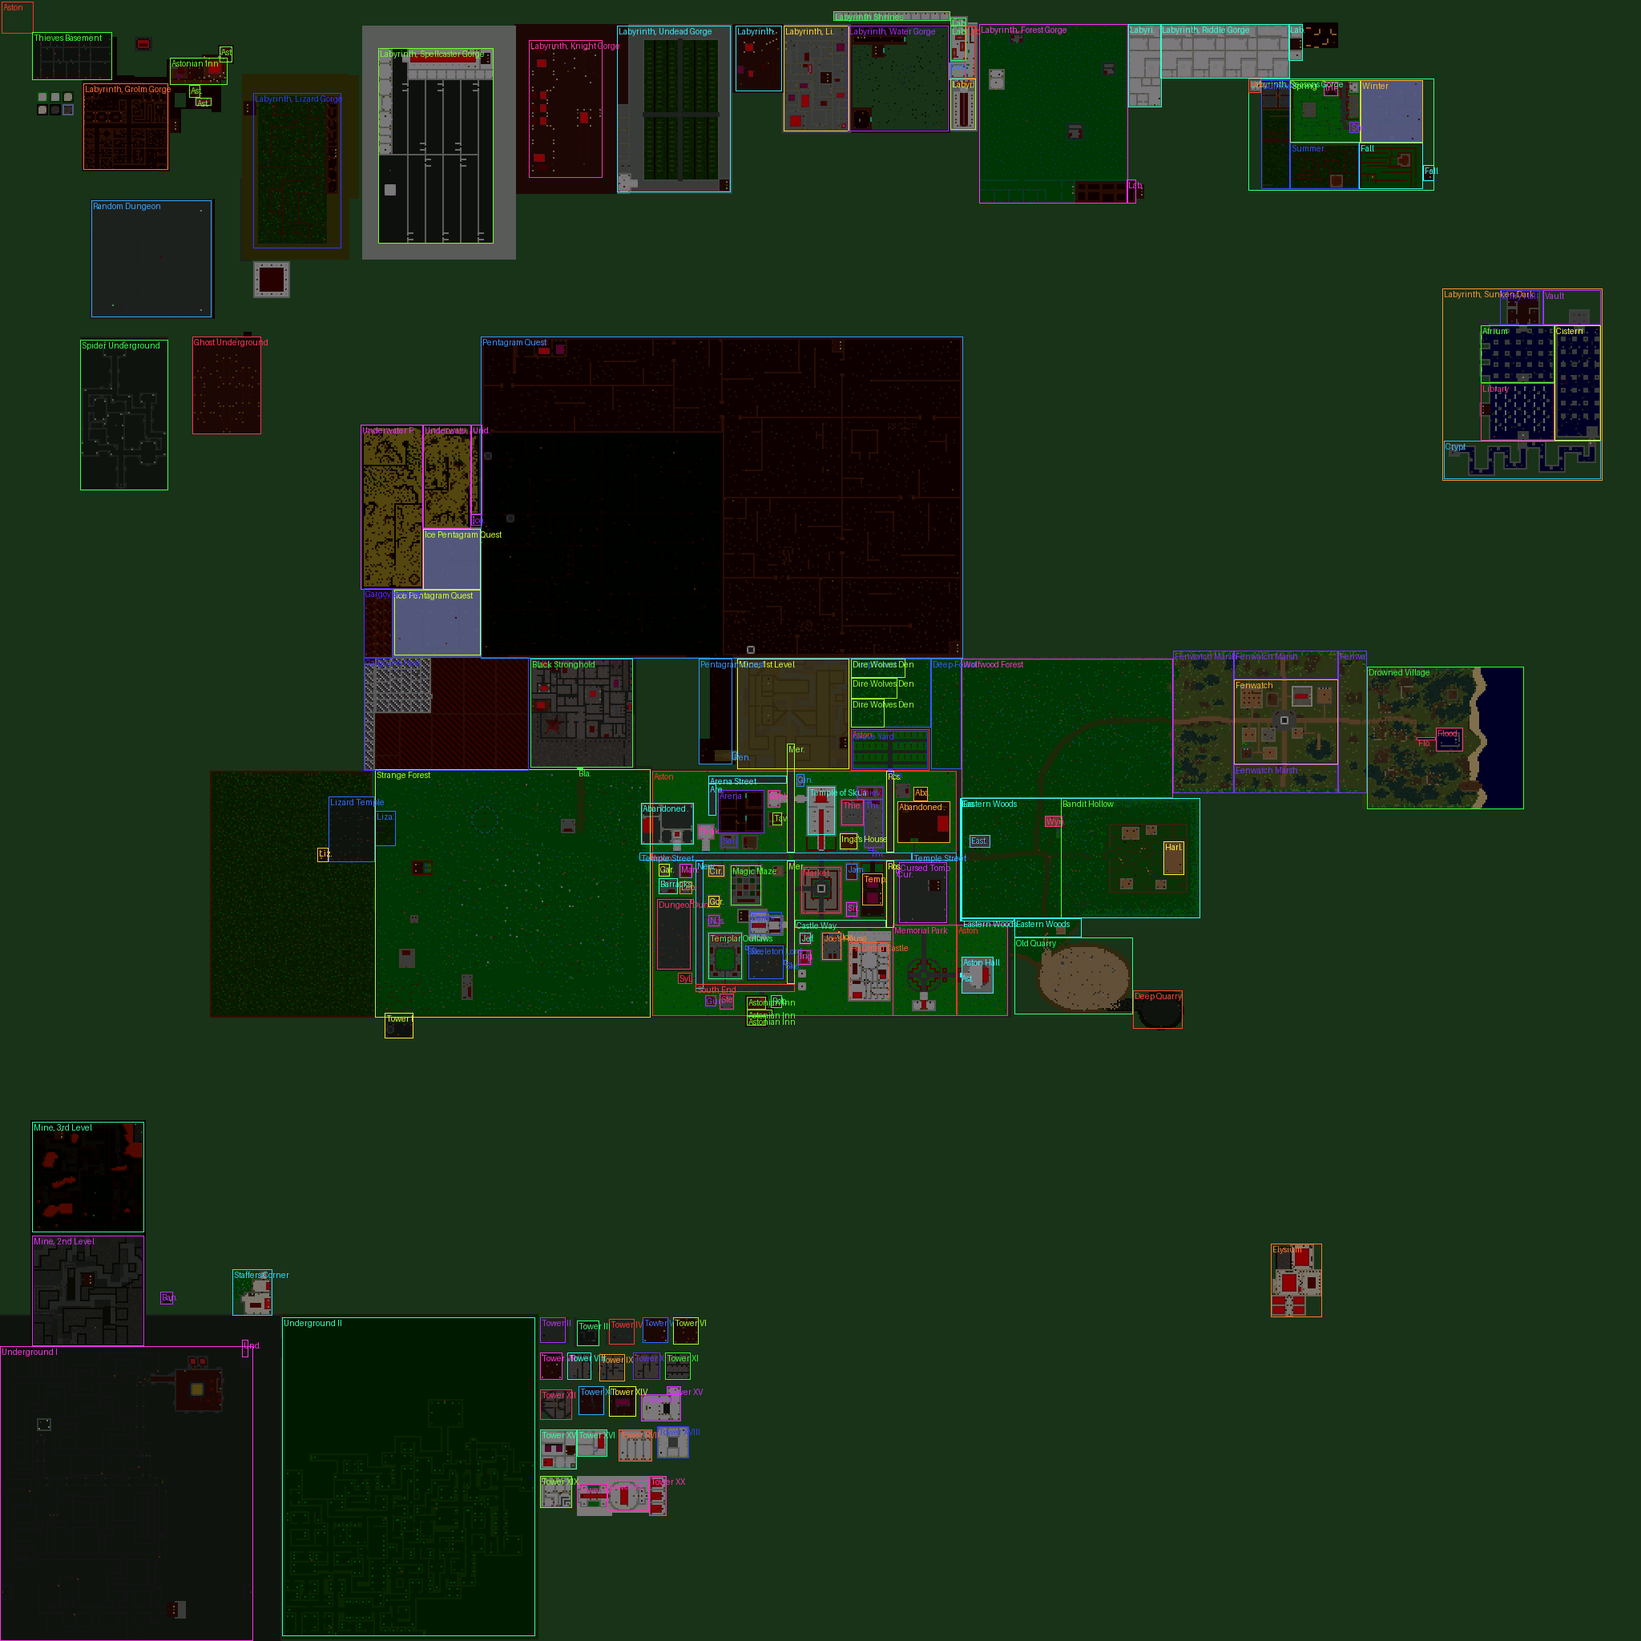
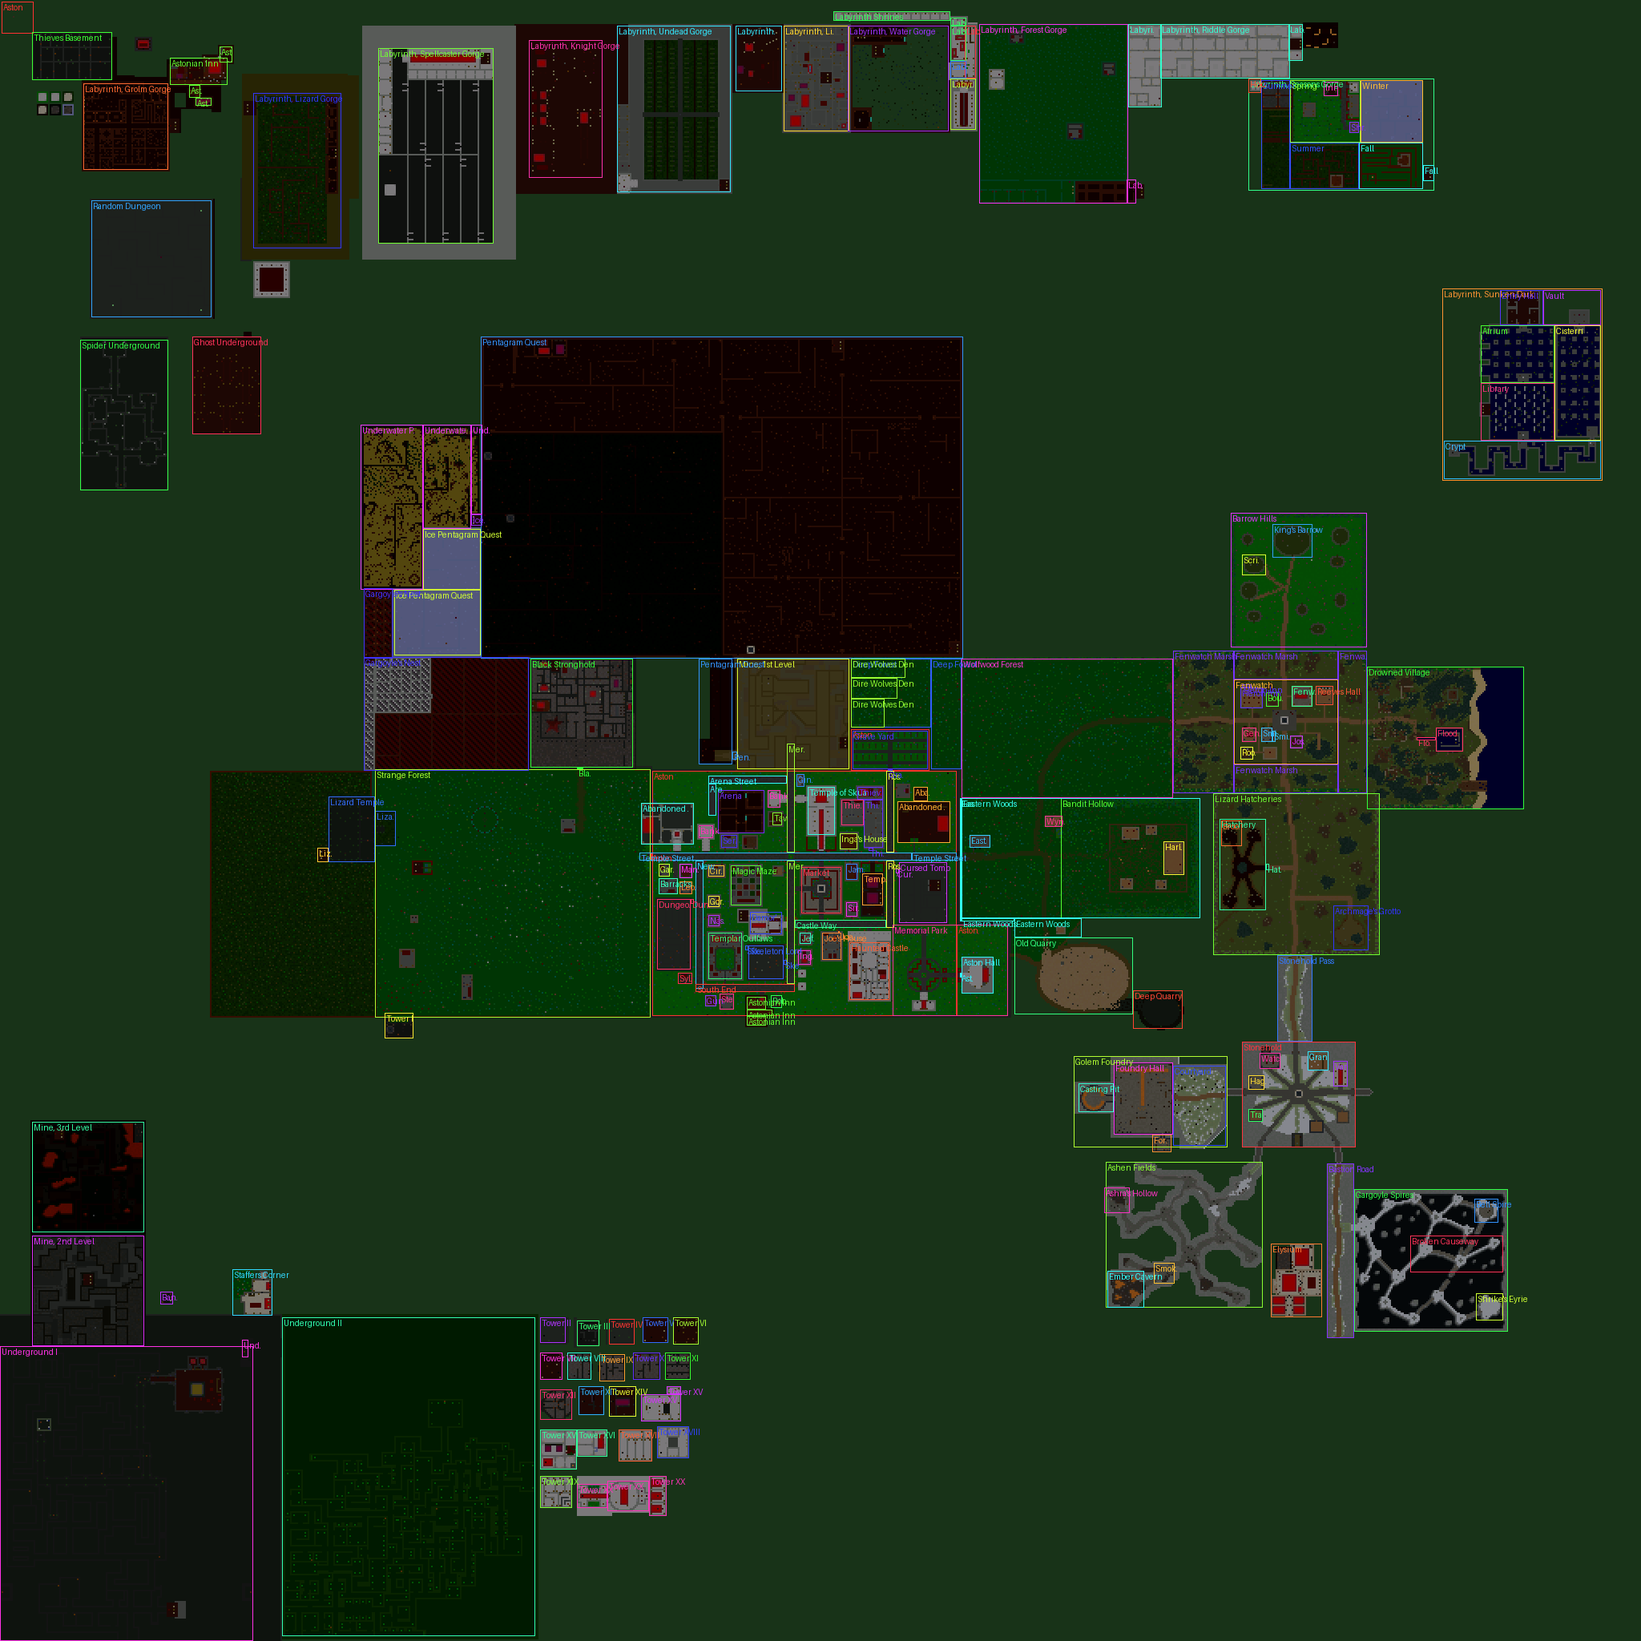
Gargoyle Spires LIVE: CHANGES, docs, minimap/zones, made.json; incremental client publish (client-dist 9c67f2c)
Claude-Session: https://claude.ai/code/session_01AHK8Gjj1u582HPuMYjjGso

Changed region(s): [[0.6562, 0.3125, 0.9375, 0.8125]]

diff --git a/tools/release/publish_client_inc.py b/tools/release/publish_client_inc.py
@@ -1,0 +1,42 @@
+"""Incremental client-dist publish: the last client-dist tree + the client files that are new or changed in size since
+(new sprites), with manifest.txt updated the same way publish_client.py writes it. The player zip is not rebuilt."""
+import os, sys, subprocess, hashlib, tempfile
+client, repo, version = sys.argv[1], sys.argv[2], sys.argv[3]
+def git(*a, env=None, inp=None):
+    return subprocess.run(['git', '-C', repo] + list(a), check=True, capture_output=True, text=True, env=env, input=inp).stdout.strip()
+man = git('show', 'client-dist:manifest.txt').split('\n')
+old = {}
+for l in man:
+    if l.startswith('file '):
+        _, h, sz, rel = l.split(' ', 3); old[rel] = (h, int(sz))
+NEVER = {'merc.dat', 'merc2.dat', 'client.ini', 'client.log', 'launcher.log'}
+changed = []
+for top in ['merc.exe', 'Launcher.exe', 'pnglib.dat', 'pnglib.idx']:
+    p = os.path.join(client, top)
+    if top not in old or os.path.getsize(p) != old[top][1]: changed.append((top, p))
+for d in ('GFX', 'sfx'):
+    for root, _, names in os.walk(os.path.join(client, d)):
+        for n in names:
+            if n in NEVER or n.lower().endswith(('.moa', '.part', '.tmp')): continue
+            p = os.path.join(root, n); rel = os.path.relpath(p, client).replace(os.sep, '/')
+            if rel not in old or os.path.getsize(p) != old[rel][1]: changed.append((rel, p))
+print('new or changed:', len(changed))
+idx = tempfile.mktemp(prefix='cd-index-'); env = dict(os.environ, GIT_INDEX_FILE=idx)
+git('read-tree', 'client-dist', env=env)
+info = []
+for rel, p in changed:
+    data = open(p, 'rb').read(); h = hashlib.sha256(data).hexdigest()
+    blob = subprocess.run(['git', '-C', repo, 'hash-object', '-w', '--stdin'], input=data, capture_output=True, check=True).stdout.decode().strip()
+    info.append('100644 %s\t%s' % (blob, rel)); old[rel] = (h, len(data))
+lines = [l for l in man if l and not l.startswith(('file ', 'base ', 'version '))]
+lines.append('version ' + version)
+for rel in sorted(old, key=lambda r: r.lower()): lines.append('file %s %d %s' % (old[rel][0], old[rel][1], rel))
+lines += [l for l in man if l.startswith('base ')]
+mblob = git('hash-object', '-w', '--stdin', inp='\n'.join(lines) + '\n')
+info.append('100644 %s\tmanifest.txt' % mblob)
+git('update-index', '--add', '--index-info', env=env, inp='\n'.join(info) + '\n')
+tree = git('write-tree', env=env); parent = git('rev-parse', 'refs/heads/client-dist')
+commit = git('commit-tree', tree, '-p', parent, '-m', 'Client files ' + version)
+git('update-ref', 'refs/heads/client-dist', commit, parent)
+os.remove(idx)
+print('client-dist is now %s (+%d files), version %s' % (commit[:7], len(changed), version))

diff --git a/docs/QUEST_BUILD.md b/docs/QUEST_BUILD.md
@@ -74,14 +74,14 @@ past Elysium -> Last Bastion.** The Barrow Hills are a dead end off Fenwatch's n
 
 ## 4. Numbers in use (check again before making new ones)
 
-- Item templates up to **2077** (2064-2068 Golem Foundry; 2069-2077 Ashen Fields) (2024-2032 Drowned Village; 2033-2050 wall decorations; 2051-2054 Barrow Hills;
-  2055-2063 Lizard Hatcheries). NPC templates up to **2360** (2319-2360 Ashen Fields; 2206-2239 Barrow Hills; 2240-2276 Lizard Hatcheries incl. Cody's 3 knight copies; 2277-2292 Stonehold; 2293-2317 Golem Foundry; 2318 the Sea Hag). `itempnew` / `ctempnew` take the next free number by themselves.
+- Item templates up to **2082** (2064-2068 Golem Foundry; 2069-2077 Ashen Fields; 2078-2082 Gargoyle Spires) (2024-2032 Drowned Village; 2033-2050 wall decorations; 2051-2054 Barrow Hills;
+  2055-2063 Lizard Hatcheries). NPC templates up to **2405** (2361-2405 Gargoyle Spires; 2319-2360 Ashen Fields; 2206-2239 Barrow Hills; 2240-2276 Lizard Hatcheries incl. Cody's 3 knight copies; 2277-2292 Stonehold; 2293-2317 Golem Foundry; 2318 the Sea Hag). `itempnew` / `ctempnew` take the next free number by themselves.
 - Monster groups (NPC data 42/44): 30 bandits, 31 quarry golems, 32 deep grolms, 33 wolves, 34 Drowned Village, 35 Barrow Hills, 36 Lizard Hatcheries.
-  37 Golem Foundry, 38 Ashen Fields. **Next: 39.** Undead in a group listed in `SLOW_UNDEAD_GROUP` (`data.h`: 34, 35) regenerate like Lab 11's (~4 hp/s, not ~12):
+  37 Golem Foundry, 38 Ashen Fields, 39 Gargoyle Spires. **Next: 40.** Undead in a group listed in `SLOW_UNDEAD_GROUP` (`data.h`: 34, 35) regenerate like Lab 11's (~4 hp/s, not ~12):
   add each new undead area's group there (Cody, Nov 17).
 - Sprites: monster recolours 41000+ (Quarry Golem), 42100+ (Deep Grolm), 50000+ Drowned Sailor, 50500+ Bog-man,
-  51000-51981 Sea Golem, 52000+ Barrow Wight, 53000+ the Broodmother, 54000+ Lizard Hatchling, 55000 Iron Golem, 56000 Forgemaster, 57000 Brass Colossus (96x96), 58000 Sea Hag, 59000 Ash Gargoyle, 60000 the Flame Lord (1.4x: 64x96 frames), 61000 Ashra: **next free block 62000** (a recolour fills base+0..1023, so step by 1000 to be safe; 500 worked
-  for the Undead and Grolm). 3D creatures 43000-44447 (wolves). Item pictures 44500-44550: **next 44551**. World objects: lizard eggs 38300-38307. Ground: snowy grass 36100-36287, molten iron 36300-36349, ash set 37100-37337 (Ashen Fields; next free 37338; 36350-36399 free, 36400-36409 are the arches). Foundry / workshop objects 38400-38447, Ashen Fields objects 38448-38462 (next 38463).
+  51000-51981 Sea Golem, 52000+ Barrow Wight, 53000+ the Broodmother, 54000+ Lizard Hatchling, 55000 Iron Golem, 56000 Forgemaster, 57000 Brass Colossus (96x96), 58000 Sea Hag, 59000 Ash Gargoyle, 60000 the Flame Lord (1.4x: 64x96 frames), 61000 Ashra, 62000 / 62500 Gargoyle Knight / Mage, 63000 Bellkeeper, 63500 Shrike (1.3x): **next free block 64000** (a recolour fills base+0..1023, so step by 1000 to be safe; 500 worked
+  for the Undead and Grolm). 3D creatures 43000-44447 (wolves). Item pictures 44500-44555: **next 44556**. Chasm ground 37400-37527. Bell and bell frame 38463-38466. World objects: lizard eggs 38300-38307. Ground: snowy grass 36100-36287, molten iron 36300-36349, ash set 37100-37337 (Ashen Fields; next free 37338; 36350-36399 free, 36400-36409 are the arches). Foundry / workshop objects 38400-38447, Ashen Fields objects 38448-38462, Spires bell 38463-38466 (next 38467).
   Server item drivers: 77 = lizard egg in a nest (`use_lizard_egg`); next free 78.
   World: marsh grounds and edges 35650-35995, reeds 38200-38207. Waypoints: 1-6 used (`next 7` in waypoints.dat).
 - Fenwatch NPCs (`tools/world/fenwatch/made.json`): Joss 2142, Ilse 2143, Aldous 2144, Petra 2145, Rook 2146, Bounty
@@ -232,9 +232,9 @@ Stonehold's west gate (681,766) and runs west (-y) into it. Monster group 37 (no
   38416 / 38418 (each N+1 its hide-walls copy); molten iron ground 36300-36303 (edges into the hall floor to make). 3D props
   from Cody's `3d Models\Fantasy Props` (Anvil, Anvil_Log, Cauldron, Bucket_Metal, Whetstone) and RPG Pack 2 (Gold_Ingots).
 
-## 9d. The Gargoyle Spires (Brigadier General) - **BUILT AND TESTED, NOT LIVE YET (Nov 19, ~07:30)**
+## 9d. The Gargoyle Spires (Brigadier General) - **LIVE Nov 19, 07:20** (CHANGES.md "Gargoyle Spires")
 
-**Going live** (the safety system refused Claude's stop-send this session: Cody says go, or does it): gated stop-send ->
+**How it went live** (Claude's first stop-send was refused by the safety system; it went through after Cody's "go live"): gated stop-send ->
 on `Server\.dat` in this order: `gargoyle_spires/build_spires.py`, `place_spires.py`, `quest_fix/quest_next.py`,
 `quest_fix/quest_order.py` -> relight (copy the .dat to `~/ctest/.dat`, `./server light > light.txt`, map.dat back) ->
 update-world -> reload-editor -> `log` for "Could not drop" -> `tools/release/publish_client.py` (chasm 37400-37527,

diff --git a/CHANGES.md b/CHANGES.md
@@ -1397,6 +1397,36 @@ the Spider Queen, the Ghost King, Robin; the Eastern Woods (Hollis, Edda, Tobias
 chain); Fenwatch by rank (Joss, Ilse, Corwin, Aldous, Petra, Robin's second, Rook); Stonehold (Hagar, Brann); Syleia last.
 `tools/world/quest_fix/quest_order.py` (new quests: add them to its list).
 
+## Gargoyle Spires (Nov 19, live) - band D, Brigadier General
+
+A summit of rock spires over a misty chasm, east of the new Bastion Road (Cody: "like you're walking over a chasm"; "more
+spread out... the main objectives... one on the south end and the other to the north end... so it takes time to do it all").
+From the gate off the road, 18 rock islands are joined by snow ridges and old stone bridges: a north branch to the Bell
+Spire, a south branch to Shrike's Eyrie, a middle loop, dead ends, and three broken bridges that look like shortcuts and
+end over the drop. About 120 steps to the Bell Spire, 175 to the Eyrie. Some 25 lone rock pillars stand in the gorge,
+and a granite rim closes it in. Zones: Bastion Road, Gargoyle Spires, Broken Causeway, Bell Spire, Shrike's Eyrie.
+- **Bastion Road**: the pass from Stonehold's south-east gate south past Elysium (still walled off) to an open gap at
+  x 834, where the Last Bastion will go. A snowy canyon; no monsters on it.
+- **Chasm ground** (`tools/sprites/world_chasm.py`, 37400-37527): each tile works out which land lies behind it and
+  draws that land's cliff wall falling away (a snow lip, granite, darker with depth) or the misty drop, so the walls
+  join up across tiles. Chasm tiles block walking but not sight: mages can cast across the gap.
+- **Monsters** (group 39), Brigadier Generals, each with a Gargoyle Horn: 29 **Gargoyle Knights** (frost-dusted
+  granite, 62000) and 12 **Gargoyle Mages** (dark slate, a pale blue glow, 62500) - the game's own two use the plain
+  red Gargoyle look. **Gargoyle Bellkeeper** (verdigris bronze, 63000) in the ruined tower of the Bell Spire beside the
+  fallen bell and the broken timber frame it hung from (objects 38463-38466), with the Spire Bell Clapper. **Shrike,
+  the Gargoyle Matriarch** (Major General; the gargoyle 1.3x in storm-cloud purple, 63500) with four Knights on her
+  Eyrie, with Shrike's Eye.
+- **Quests, Commander Rhea (Stonehold)**, rank Brigadier General+, no gold: Spire Bell Clapper -> **Warden's Girdle**
+  (+6 Bravery, +70 hitpoints) 160,000 exp; Shrike's Eye -> **Shrike's Eye Amulet** (+6 Agility, +12 Perception)
+  230,000 exp. Her greeting points to whichever is left ("what next" lines). **Watch Sergeant Brann** now also pays
+  for **Gargoyle Horns**: 16,000 exp + 80G each, any number (his Golem Cores unchanged). Item pictures 44551-44555.
+- Scripts: `tools/world/gargoyle_spires/build_spires.py` (terrain; it also opens any spot walled in by accident),
+  `place_spires.py` (made.json); quest_next.py and quest_order.py read Rhea's templates from it. Client files:
+  client-dist 9c67f2c (published with the new `tools/release/publish_client_inc.py`: only the new files; the player zip
+  is not rebuilt by it).
+- Also live with it: the server build now has Nov 18's `if done` conversation condition (the live program was one
+  build behind, so the "what next" greetings of Joss, Ilse, Aldous, Hagar, Edda and Varo were not shown until now).
+
 ## Ashen Fields (Nov 18, live) - band D, Colonel
 
 An ash canyon high on the mountain, south-west of Stonehold (Cody: "stick to the whole mountain top theme"; "more maze

diff --git a/docs/world_zones.md b/docs/world_zones.md
@@ -195,3 +195,42 @@ Shown by `/who`, by NPCs when asked where you are, and in server logs. A spot in
 | 185 | Drowned Village | 416,853 | 504,950 | "in the Drowned Village" |
 | 186 | Flooded Chapel | 454,896 | 468,912 | "in the Flooded Chapel" |
 | 187 | Flooded Chapel | 460,884 | 461,895 | "in the Flooded Chapel" |
+| 188 | King's Barrow | 327,794 | 347,818 | "in the King's Barrow" |
+| 189 | Scribe's Barrow | 346,775 | 358,789 | "in the Scribe's Barrow" |
+| 190 | Barrow Hills | 320,768 | 403,852 | "in the Barrow Hills" |
+| 191 | Hatchery | 511,761 | 567,789 | "in the Hatchery" |
+| 192 | Hatchery | 539,790 | 542,791 | "in the Hatchery" |
+| 193 | Broodmother's Nest | 512,762 | 527,774 | "in the Broodmother's Nest" |
+| 194 | Archmage's Grotto | 565,832 | 592,853 | "in the Archmage's Grotto" |
+| 195 | Lizard Hatcheries | 495,757 | 595,860 | "in the Lizard Hatcheries" |
+| 196 | Watch Barracks | 657,786 | 666,798 | "in the Watch Barracks" |
+| 197 | Granite Hearth | 656,816 | 667,828 | "in the Granite Hearth" |
+| 198 | Hagar's Forge | 671,779 | 679,788 | "in Hagar's Forge" |
+| 199 | Varo's Temple | 662,832 | 677,840 | "in Varo's Temple" |
+| 200 | Trader's House | 692,779 | 699,787 | "in Trader's House" |
+| 201 | Stonehold | 650,775 | 715,845 | "in Stonehold" |
+| 202 | Stonehold Pass | 596,797 | 649,818 | "in the Stonehold Pass" |
+| 203 | Golem Foundry | 659,670 | 715,765 | "in the Golem Foundry" |
+| 204 | Foundry Hall | 663,695 | 707,731 | "in the Foundry Hall" |
+| 205 | Casting Pit | 676,673 | 693,694 | "in the Casting Pit" |
+| 206 | Forgemaster's Forge | 708,719 | 718,730 | "in Forgemaster's Forge" |
+| 207 | Heron Inn | 429,774 | 441,787 | "in Heron Inn" |
+| 208 | Heron Inn | 427,775 | 428,780 | "in Heron Inn" |
+| 209 | Bounty Office | 432,790 | 440,797 | "in the Bounty Office" |
+| 210 | General Store of Fenwatch | 454,775 | 462,783 | "in the General Store of Fenwatch" |
+| 211 | Smithy of Fenwatch | 454,787 | 462,793 | "in the Smithy of Fenwatch" |
+| 212 | Smithy of Fenwatch | 456,794 | 462,795 | "in the Smithy of Fenwatch" |
+| 213 | Rook's House | 466,774 | 473,781 | "in Rook's House" |
+| 214 | Joss's Cottage | 459,805 | 466,812 | "in Joss's Cottage" |
+| 215 | Fenwatch Chapel | 428,806 | 440,818 | "in Fenwatch Chapel" |
+| 216 | Reeves Hall | 428,821 | 439,831 | "in the Reeves Hall" |
+| 217 | Courtyard | 665,732 | 714,764 | "in the Courtyard" |
+| 218 | Ashen Fields | 725,690 | 815,787 | "in the Ashen Fields" |
+| 219 | Ashra's Hollow | 741,689 | 756,704 | "in the Ashra's Hollow" |
+| 220 | Ember Cavern | 793,691 | 815,713 | "in the Ember Cavern" |
+| 221 | Smoking Steps | 788,720 | 800,732 | "in the Smoking Steps" |
+| 222 | Bastion Road | 726,828 | 834,844 | "in the Bastion Road" |
+| 223 | Gargoyle Spires | 742,845 | 830,940 | "in the Gargoyle Spires" |
+| 224 | Broken Causeway | 771,880 | 793,937 | "in the Broken Causeway" |
+| 225 | Bell Spire | 748,920 | 762,934 | "in the Bell Spire" |
+| 226 | Shrike's Eyrie | 807,921 | 823,937 | "in Shrike's Eyrie" |

diff --git a/docs/HANDOFF.md b/docs/HANDOFF.md
@@ -268,10 +268,15 @@ project's next session. What the second chat did Nov 15-17 (all live, CHANGES.md
 the Ashen Fields (Varo), then the Gargoyle Spires (Rhea; the Spires add Gargoyle Horns to Brann's bounty), the Monastery last.
 Open: molten iron / crucibles / furnaces give no light (only the fire bowls do) - offered Cody hidden light sources.
 
-**Nov 19, ~07:30: Gargoyle Spires BUILT AND TESTED, NOT LIVE** - Cody OK'd the v4 layout and the recolours. Claude's stop-send
-was refused by the safety system this session, so going live waits: steps in QUEST_BUILD 9d "Going live". Sprites already in
-`Client\GFX` (unpublished): chasm 37400-37527, gargoyles 62000/62500/63000/63500, items 44551-44555, bell 38463-38464, bell frame 38465-38466 (Cody asked for it).
-Zone note: a zone with flag 1 gets "the" in front ("in the Ashra's Hollow" too - Cody may want flag 0 there).
+**Nov 19, 07:20: the Gargoyle Spires are LIVE** (CHANGES.md "Gargoyle Spires"; client-dist 9c67f2c, Cody pushes). Band D: only
+the Monastery is left (new monk sprites). Lessons: (1) the live server was one build behind (Nov 18's `if done` in npctalk.c
+was never compiled live): after starting, `talkreload` should say just "NPC dialogue loaded: N entries" - "(some lines were
+not understood)" means the live program and the source disagree; `update-code` fixed it. (2) publish_client.py copies and
+hashes all ~14,000 client files and no longer finishes within the device shell's 3 minutes; `tools/release/publish_client_inc.py`
+adds only new / resized files to client-dist (same manifest), but does not rebuild the player zip - run the full
+publish_client.py from Ubuntu (no time limit) before handing out the zip. (3) Claude's first stop-send this session was
+refused by the safety system; it went through after Cody said "go live". (4) A zone with flag 1 gets "the" in front:
+"Shrike's Eyrie" is flag 0; "Ashra's Hollow" still reads "in the Ashra's Hollow" (fix: flag 0).
 
 **Nov 18, 22:45 (for the next chat):** the old chat's device shell broke (Claude deleted its own `~/tmp` while freeing a
 full scratch disk: never delete `~/tmp`; free space with `~/fw`, `~/scratch`, `~/ctest/.dat/mapedit-backups` instead).

diff --git a/docs/TODO.md b/docs/TODO.md
@@ -22,7 +22,7 @@ world, quests, the editor, the client and Discord. Merged Nov 10 from the old TO
   the willows, Nov 17). Stopgap: 38112 / 38124 / 38134 / 38144 / 38158 are copies of the stumps (client-dist). Fix in the
   next client build: the new trees -> a stump, 38164 + (sprite & 3).
 
-0. ★ **Quest plan, area by area**: bands A-B done, Fenwatch + Drowned Village (Nov 16) + Barrow Hills + Lizard Hatcheries (Nov 17) live: band C done; Stonehold + its people, the Golem Foundry (Nov 17) and the Ashen Fields (Nov 18) live; next the Gargoyle Spires, the Monastery last: **follow `docs/QUEST_BUILD.md`** - [Quests](#6-quests)
+0. ★ **Quest plan, area by area**: bands A-B done, Fenwatch + Drowned Village (Nov 16) + Barrow Hills + Lizard Hatcheries (Nov 17) live: band C done; Stonehold + its people, the Golem Foundry (Nov 17), the Ashen Fields (Nov 18) and the Gargoyle Spires with Bastion Road (Nov 19) live; next the Monastery (last of band D): **follow `docs/QUEST_BUILD.md`** - [Quests](#6-quests)
 1. ★ **Soulstone levels too low** (MAJOR) - [Fixes](#1-fixes-and-balance)
 2. ★ **Discord**: built Nov 14 (CHANGES.md "Discord"); waiting on Cody's webhooks / bot (HOSTING.md "Discord links")
 3. ★ **Walking speed, speed modes and attack speed** (look at it together first) - [Systems](#2-gameplay-systems)
